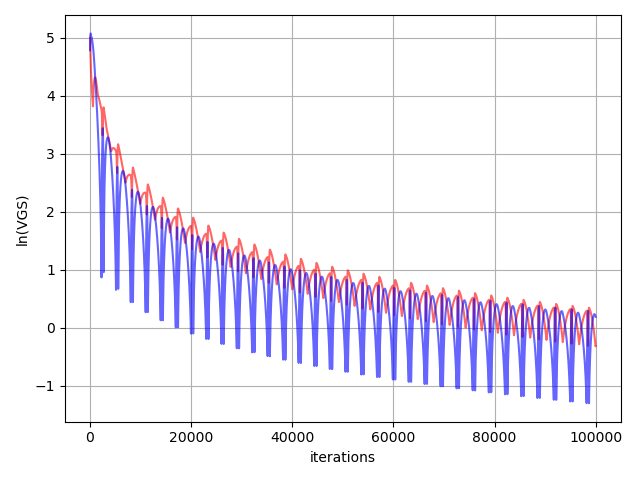
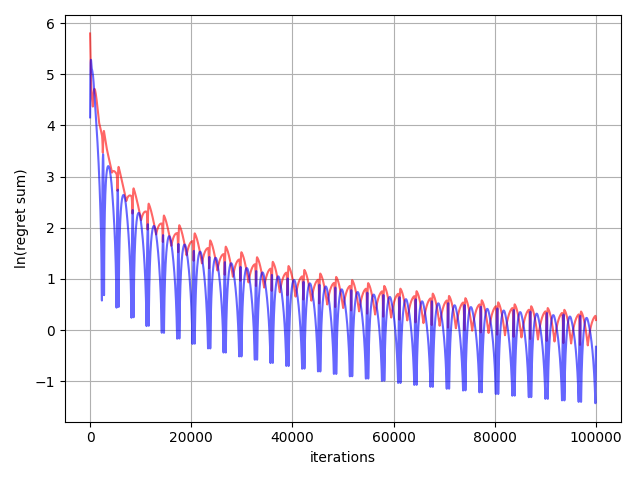
the study of the cyclic strategy paths
1. zero-sum games with 3 support and convergence
2. regret vector trajectory always on the border of simplex
3. 8x8_PT_2: a typical game shows how cycle affects accuracy

diff --git a/eqpt_trajectory_3x3_regret_vector.py b/eqpt_trajectory_3x3_regret_vector.py
@@ -1,0 +1,81 @@
+import sys
+import numpy as np
+import argparse
+import importlib
+import utils
+from FPI_2P import FPI_2P_Regret_Vector
+
+parser = argparse.ArgumentParser(description='FPI trajetory')
+parser.add_argument(
+    'settings', metavar='SETTING_PY_FILE_BASENAME', type=str, nargs=1,
+    help='game setting .py file in `games` subdir: initial strategies, payoff matrices...')
+args = parser.parse_args()
+setting_file = args.settings[0]
+settings = importlib.import_module('games.' + setting_file)
+
+
+# algorithm settings
+try:
+    r = settings.rate
+except AttributeError:
+    r = 10 ** -5
+try:
+    iters = settings.iters
+except AttributeError:
+    iters = 10 ** 5
+try:
+    display_game = settings.display_game
+except AttributeError:
+    display_game = False
+try:
+    use_LH = settings.use_LH
+except AttributeError:
+    use_LH = False
+
+if settings.str_row_init.shape[0] != 3 or settings.str_col_init.shape[0] != 3:
+    print('the game must be 3x3 for plotting on simplex.')
+    sys.exit(1)
+
+
+fpi = FPI_2P_Regret_Vector(
+    [settings.str_row_init, settings.str_col_init],
+    [settings.payoff_matrix_row, settings.payoff_matrix_col])
+if display_game:
+    fpi.print_game()
+fpi.converge(r, iters)
+FPI_2P_Regret_Vector.display_eqpt(fpi.eqpt())
+if use_LH:
+    fpi.lemke_howson()
+
+stats = fpi.get_stats()
+# essential: transform point in 2-simplex to 2-D plane
+row_x_a, row_y_a = utils.barycentric_to_cartesian(np.array(stats['str_row_l']))
+col_x_a, col_y_a = utils.barycentric_to_cartesian(np.array(stats['str_col_l']))
+temp_a = np.array(stats['vgv_row_l'])
+temp_a = np.apply_along_axis(lambda x: x / x.sum(), 1, temp_a)
+row_rv_x_a, row_rv_y_a = utils.barycentric_to_cartesian(temp_a)
+temp_a = np.array(stats['vgv_col_l'])
+temp_a = np.apply_along_axis(lambda x: x / x.sum(), 1, temp_a)
+col_rv_x_a, col_rv_y_a = utils.barycentric_to_cartesian(temp_a)
+
+import matplotlib.pyplot as plt
+plt.plot(row_x_a, row_y_a, color='red', alpha=.5)
+plt.plot(row_rv_x_a, row_rv_y_a, color='red', linestyle='--', alpha=.5)
+plt.plot(col_x_a, col_y_a, color='blue', alpha=.5)
+plt.plot(col_rv_x_a, col_rv_y_a, color='blue', linestyle='--', alpha=.5)
+plt.axvline(row_x_a[-1], color='red', linestyle='dotted', alpha=.3, zorder=-1)
+plt.axhline(row_y_a[-1], color='red', linestyle='dotted', alpha=.3, zorder=-1)
+plt.axvline(col_x_a[-1], color='blue', linestyle='dotted', alpha=.3, zorder=-1)
+plt.axhline(col_y_a[-1], color='blue', linestyle='dotted', alpha=.3, zorder=-1)
+import matplotlib.patches as mpatches
+ax = plt.gca()
+triangle = mpatches.Polygon(np.array([[0, 0], [np.sqrt(2) / 2, np.sqrt(6) / 2], [np.sqrt(2), 0]]), fc="gray", alpha=.2)
+ax.add_artist(triangle)
+plt.axis('scaled')
+# plt.xlim(0, np.sqrt(2))
+# plt.ylim(0, np.sqrt(6) / 2)
+plt.xlim(-.05, np.sqrt(2) + .05)
+plt.ylim(-.05, np.sqrt(6) / 2 + .05)
+plt.tight_layout()
+plt.savefig('trajectory_3x3.png')
+plt.show()

diff --git a/eqpt_trajectory_3x3_3D.py b/eqpt_trajectory_3x3_3D.py
@@ -1,0 +1,79 @@
+import sys
+import numpy as np
+import argparse
+import importlib
+import matplotlib.pyplot as plt
+import utils
+from FPI_2P import FPI_2P_Stgy
+
+parser = argparse.ArgumentParser(description='FPI trajetory')
+parser.add_argument(
+    'settings', metavar='SETTING_PY_FILE_BASENAME', type=str, nargs=1,
+    help='game setting .py file in `games` subdir: initial strategies, payoff matrices...')
+args = parser.parse_args()
+setting_file = args.settings[0]
+settings = importlib.import_module('games.' + setting_file)
+
+
+# algorithm settings
+try:
+    r = settings.rate
+except AttributeError:
+    r = 10 ** -5
+try:
+    iters = settings.iters
+except AttributeError:
+    iters = 10 ** 5
+try:
+    display_game = settings.display_game
+except AttributeError:
+    display_game = False
+try:
+    use_LH = settings.use_LH
+except AttributeError:
+    use_LH = False
+
+if settings.str_row_init.shape[0] != 3 or settings.str_col_init.shape[0] != 3:
+    print('the game must be 3x3 for plotting on simplex.')
+    sys.exit(1)
+
+
+fpi = FPI_2P_Stgy(
+    [settings.str_row_init, settings.str_col_init],
+    [settings.payoff_matrix_row, settings.payoff_matrix_col])
+if display_game:
+    fpi.print_game()
+fpi.converge(r, iters)
+FPI_2P_Stgy.display_eqpt(fpi.eqpt())
+if use_LH:
+    fpi.lemke_howson()
+
+stats = fpi.get_stats()
+# row_x_a, row_y_a = utils.barycentric_to_cartesian(np.array(stats['str_row_l']))
+# col_x_a, col_y_a = utils.barycentric_to_cartesian(np.array(stats['str_col_l']))
+str_path_row = np.array(stats['str_row_l'])
+str_path_col = np.array(stats['str_col_l'])
+
+# Attaching 3D axis to the figure
+fig = plt.figure()
+ax = fig.add_subplot(projection="3d")
+
+# Setting the axes properties
+ax.set_xlim3d([0.0, 1.0])
+ax.set_xlabel('pure stgy 1')
+ax.set_ylim3d([0.0, 1.0])
+ax.set_ylabel('pure stgy 2')
+ax.set_zlim3d([0.0, 1.0])
+ax.set_zlabel('pure stgy 3')
+# ax.set_title('Geometrical Regret Matching')
+
+# plot the probability simplex
+ax.plot((1, 0), (0, 1), (0, 0), linestyle='dotted', color='grey')
+ax.plot((1, 0), (0, 0), (0, 1), linestyle='dotted', color='grey')
+ax.plot((0, 0), (1, 0), (0, 1), linestyle='dotted', color='grey')
+
+ax.plot(str_path_row[:, 0], str_path_row[:, 1], zs=str_path_row[:, 2], color='red')
+ax.plot(str_path_col[:, 0], str_path_col[:, 1], zs=str_path_col[:, 2], color='blue')
+
+plt.show()
+# line_ani.save('./animation.mp4')

diff --git a/FPI_2P.py b/FPI_2P.py
@@ -167,3 +167,17 @@ class FPI_2P_Animation(FPI_2P):
         self.stats['str_col_l'].append(self.str_col)
         self.stats['vgs_row_l'].append(self.lambda_row.sum())
         self.stats['vgs_col_l'].append(self.lambda_col.sum())
+
+
+class FPI_2P_Regret_Vector(FPI_2P):
+    def init_stats(self):
+        self.stats['str_row_l'] = []
+        self.stats['str_col_l'] = []
+        self.stats['vgv_row_l'] = []
+        self.stats['vgv_col_l'] = []
+
+    def collect_stats(self):
+        self.stats['str_row_l'].append(self.str_row)
+        self.stats['str_col_l'].append(self.str_col)
+        self.stats['vgv_row_l'].append(self.lambda_row)
+        self.stats['vgv_col_l'].append(self.lambda_col)

diff --git a/games/3x3_zero_sum_3sp_1.py b/games/3x3_zero_sum_3sp_1.py
@@ -1,0 +1,25 @@
+import numpy as np
+import utils
+
+iters = 2 * 10 ** 5
+rate = 10 ** -5
+payoff_scale = 10 ** 0
+
+display_game = True
+use_LH = True
+contraction_test = True
+
+str_row_init = utils.randomize_mixed_strategy(3)
+str_col_init = utils.randomize_mixed_strategy(3)
+
+# str_row_init = np.array([0.1667, 0.5, 0.3333])
+# str_col_init = np.array([0.3333, 0.5, 0.1667])
+
+payoff_matrix_row = np.array([
+    [-517.0, 494.0, 885.0],
+    [-212.0, 41.0, 722.0],
+    [720.0, - 316.0, - 758.0]])
+payoff_matrix_col = np.array([
+    [517.0, - 494.0, - 885.0],
+    [212.0, - 41.0, - 722.0],
+    [-720.0, 316.0, 758.0]])

diff --git a/games/3x3_zero_sum_3sp_2.py b/games/3x3_zero_sum_3sp_2.py
@@ -1,0 +1,25 @@
+import numpy as np
+import utils
+
+iters = 2 * 10 ** 5
+rate = 10 ** -5
+payoff_scale = 10 ** 0
+
+display_game = True
+use_LH = True
+contraction_test = True
+
+str_row_init = utils.randomize_mixed_strategy(3)
+str_col_init = utils.randomize_mixed_strategy(3)
+
+# str_row_init = np.array([0.1667, 0.5, 0.3333])
+# str_col_init = np.array([0.3333, 0.5, 0.1667])
+
+payoff_matrix_row = np.array([
+    [-863.0, -185.0, 57.0],
+    [684.0, -955.0, -963.0],
+    [-938.0, 933.0, -893.0]])
+payoff_matrix_col = np.array([
+    [863.0, 185.0, -57.0],
+    [-684.0, 955.0, 963.0],
+    [938.0, -933.0, 893.0]])

diff --git a/games/8x8_PT_2.py b/games/8x8_PT_2.py
@@ -8,6 +8,13 @@ payoff_scale = 10 ** 0
 display_game = True
 use_LH = True
 
+# to the 1sp eqpt
+# str_row_init = np.array([0, 0, .98, .02, 0, 0, 0, 0])
+# str_col_init = np.array([.98, 0.02, 0, 0, 0, 0, 0, 0])
+# to the 2sp eqpt
+# str_row_init = np.array([.15, 0, 0, 0, 0, .85, 0, 0])
+# str_col_init = np.array([0, 0, 0, 0, 0, .20, 0, .80])
+# to the 3sp eqpt
 str_row_init = utils.randomize_mixed_strategy(8)
 str_col_init = utils.randomize_mixed_strategy(8)
 

diff --git a/eqpt_trajectory_VGS.py b/eqpt_trajectory_VGS.py
@@ -47,7 +47,7 @@ import matplotlib.pyplot as plt
 plt.plot(np.log(np.array(stats['vgs_row_l'])), color='red', alpha=.6)
 plt.plot(np.log(np.array(stats['vgs_col_l'])), color='blue', alpha=.6)
 plt.xlabel('iterations')
-plt.ylabel('ln(VGS)')
+plt.ylabel('ln(regret sum)')
 plt.grid(True)
 plt.tight_layout()
 plt.savefig('trajectory_vgs.png')

diff --git a/games/3x3_Shapley_RPS.py b/games/3x3_Shapley_RPS.py
@@ -20,3 +20,6 @@ payoff_matrix_col = np.array([
     [1, 0, 0]])
 payoff_matrix_row = payoff_matrix_row * payoff_scale
 payoff_matrix_col = payoff_matrix_col * payoff_scale
+
+eqpts = [
+    (np.array([1 / 3, 1 / 3, 1 / 3]), np.array([1 / 3, 1 / 3, 1 / 3]))]

diff --git a/games/4x4_degenerate_uni.py b/games/4x4_degenerate_uni.py
@@ -23,6 +23,6 @@ payoff_matrix_col = np.array([
     [-200, 100, 300, -300]])
 eqpt_1 = (
     np.array([0.1504, 0.0406, 0.1098, 0.6992]),
-    np.array([0.0012, 0.0016, 0.9971, 0.0001]))
+    np.array([0.00, 0.000, 1, 0.000]))
 
 eqpts = [eqpt_1]

diff --git a/README.md b/README.md
@@ -1,42 +1,54 @@
 # A path finder for Nash equilibrium
+
 ## Overview
+
 This project provides many demo programs to show that the non-cooperative games always converges to Nash equilibrium no matter what initial strategy is given. To run the game, all you have to do is provide payoff matrices (functions) and initial strategies.
 The convergence path can be nicely visualized in the 2-D or 3-D graph.
 
 An algorithm called `geometrical regret matching` is the core of this program. More math details are in [this paper](https://doi.org/10.1063/5.0012735).
 
 ## Requirements
+
 ***
+
 * Python 3
 * Python packages: numpy, matplotlib, scikit-learn, nashpy(optional)
 
 Note: Numpy with Openblas support will greatly improves performance. See this [link](https://stackoverflow.com/questions/27199822/numpy-dot-is-slow-yet-blas-and-lapack-are-installed-how-to-fix).
 
 ## Demos for two-person games
+
 ***
-Find the strategy path to Nash equilibrium for a 3X3 game.
-```
+Find the strategy path to Nash equilibrium for a `3X3` game:
+
+```shell
 python eqpt_trajectory_3x3.py 3x3_two_eqpt_two_support_2
 ```
-Here ***3x3_two_eqpt_two_support_2*** is the code name of a 3X3 game, whose bimatrix and initial strategies are defined in the python file `games/3x3_two_eqpt_two_support_2.py`. This game has two equilibrium points each of which uses two pure strategies.
+
+Here ***3x3_two_eqpt_two_support_2*** is the code name of a `3X3` game, whose bimatrix and initial strategies are defined in the python file `games/3x3_two_eqpt_two_support_2.py`. This game has two equilibrium points each of which uses two pure strategies.
 The output figure shows that the strategy path goes to one of the equilibrium point dependent on what initial strategies the game starts with:
 
 ![3x3_two_eqpt_two_support_2](./trajectory_3x3.png)
 
-Note that the red and blue paths belong to different players for the same equilibrium point.
+Note that the red and blue paths belong to different players for the same equilibrium point. And the equilateral triangle in the figure is the transformed simplex:
+![simplex](./simplex.png)
 
 Or you can run a game with random bimatrix and random initial strategies.
-```
+
+```shell
 python eqpt_trajectory_3x3.py 3x3
 ```
+
 Here game ***3x3*** is defined in `games/3x3.py`. In fact, you can define any game by creating a new Python file in the `games` directory. The following games with self-explanatory file names are predefined (note that those with 'fig_' prefix are for paper usage and should be run by `fig_path_3x3.py`):
 
 ![games list](./games_list.png)
 
-You can of course run any general mXn game and show the path in 3-D graph. Note that the path of mXn dimensions is reduced to 3x3 with PCA. Here is an example of 60x40 game:
-```
+You can of course run any general `mXn` game and show the path in 3-D graph. Note that the path of `mXn` dimensions is reduced to `3x3` with PCA. Here is an example of `60X40` game:
+
+```shell
 python eqpt_trajectory_PCA_3D.py 60x40
 ```
+
 Game ***60x40*** is defined in file `games/60x40.py`. Here is the output figure showing the path:
 
 ![60x40](./trajectory_PCA_3D.png)
@@ -44,9 +56,11 @@ Game ***60x40*** is defined in file `games/60x40.py`. Here is the output figure 
 You can run even bigger game, e.g. `games/300x200_two_hour_laptop.py`, which costs less than two hours for a laptop to run.
 
 And equilibrium point can be an 'attractor' for strategy paths, meaning that equilibrium point is the inevitable destination of game regardless where it starts. You can run:
-```
+
+```shell
 python tunnel_3x3.py 3x3_two_eqpt_two_support_2
 ```
+
 The output figure shows that the paths always go to one of the two equilibrium points.
 
 ![attractor](./tunnel_3x3.png)
@@ -54,25 +68,47 @@ The output figure shows that the paths always go to one of the two equilibrium p
 Each time you run the game, there is text output in the terminal showing the details about the equilibrium point and its approximation accuracy.
 
 The accuracy of approximating to a Nash equilibrium point can be visualized by running:
-```
+
+```shell
 python eqpt_trajectory_VGS.py 3x3_two_eqpt_two_support_2
 ```
+
 The output figure is
 
 ![vgs](./trajectory_vgs.png)
 
-
 ## Demos for many-person games
-And you can run many-person game, which usually takes time. The visualization of path is by the command:
-```
+
+You can run many-person game, which usually takes time. The visualization of path is by the command:
+
+```shell
 python FPI_nP_path.py
 ```
 
 ![np](./nP-path.png)
 
-The approximating process can visualized by the command:
-```
+The approximation accuracy can visualized by the command:
+
+```shell
 python FPI_nP.py
 ```
 
 ![np vgs](./nP.png)
+
+## Important: the cyclic strategy path issue
+
+Here we show a big limitation of this "Geometrical Regret Matching" method.
+
+By running the `Shapley's Rock-Paper-Scissor` game among many others, we can observe cyclic strategy paths around the true equilibrium point `(1/3, 1/3, 1/3)`:
+
+```shell
+python eqpt_trajectory_3x3_3D.py 3x3_Shapley_RPS
+```
+
+![cyclic path](./cycle_path.png)
+
+The reason for this cycle is that, the regret vector, which is the target of strategy updating, is always to the direction of the border of simplex, because regret vector, no matter how it varies, must have at least one zero component due to the payoff's linearity in mixed strategy.
+Therefore, when the regret vector cycles around the simplex border, the mixed strategy chases it and meanwhile struggles for the true equilibrium point in the center of simplex.
+Hence, the cycles emerge.
+
+The cyclic strategy paths occur when the game tries to converge to an equilibrium point with more than two pure strategies, and, dependent of the size of cycle, can hurt the approximation accuracy significantly.
